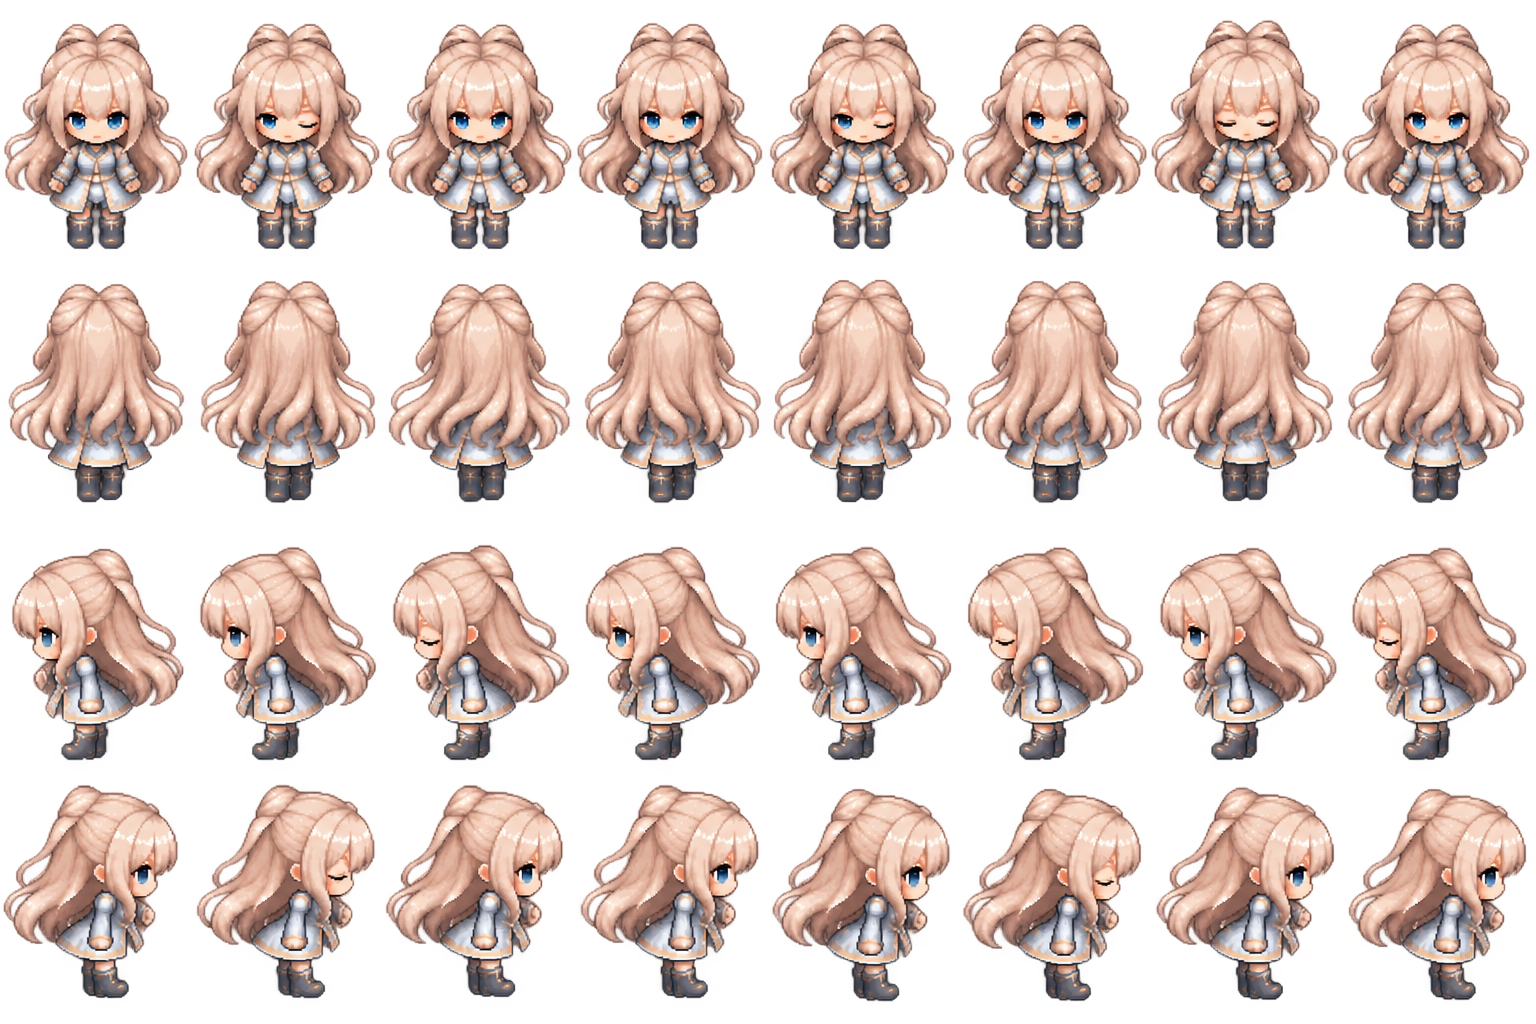
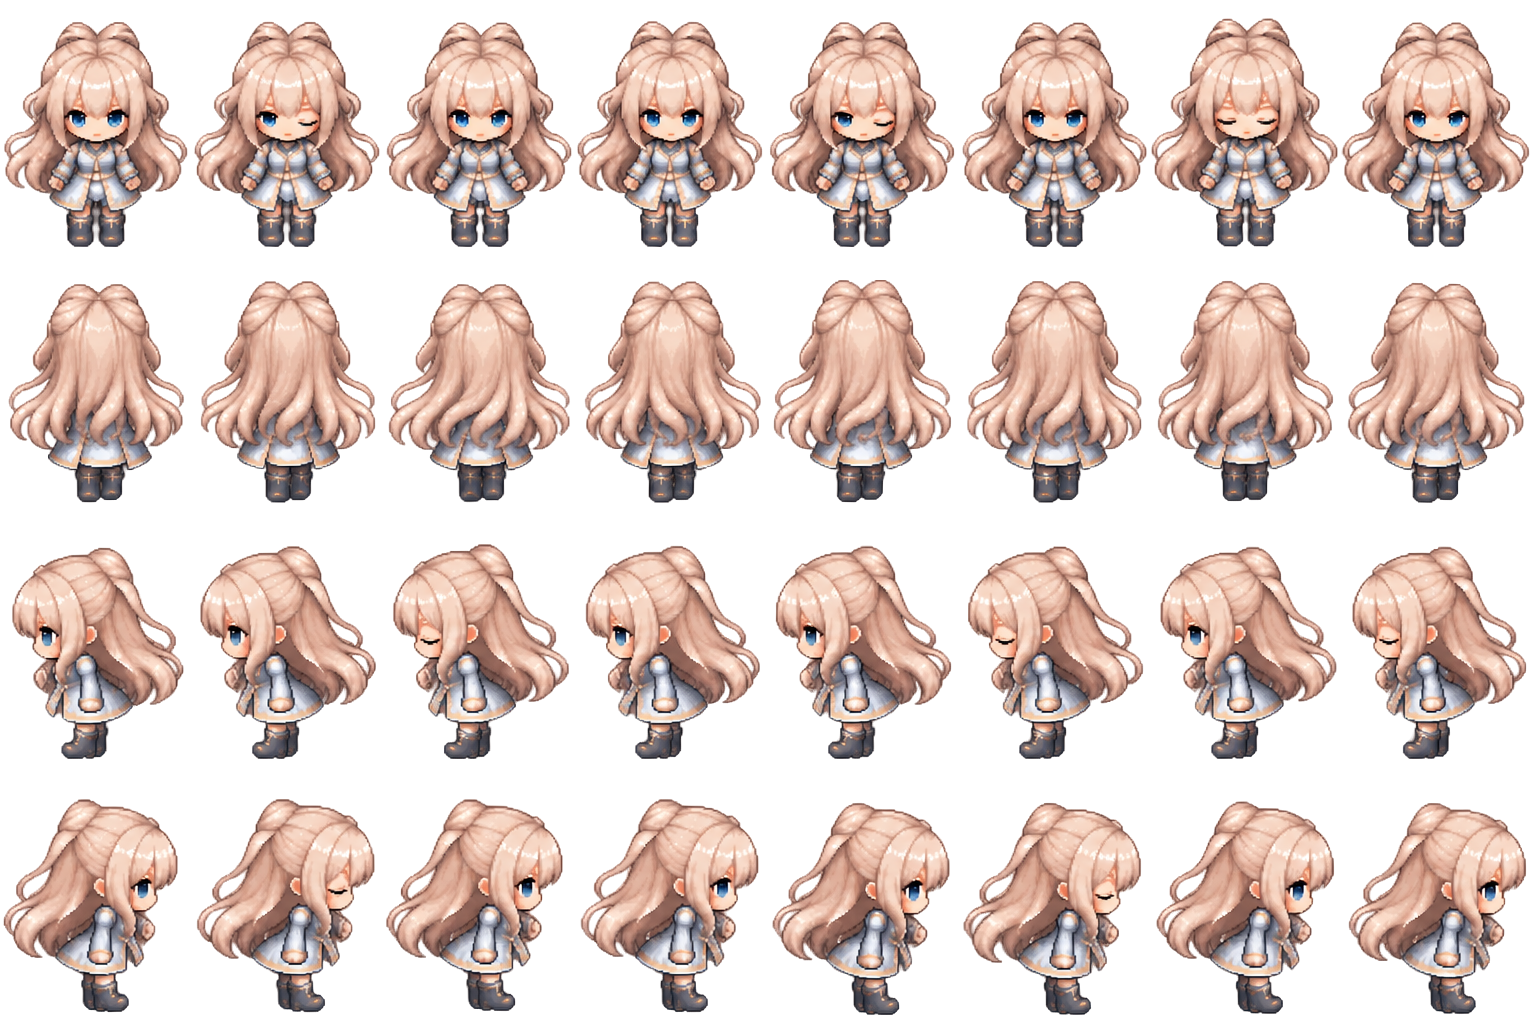
Fix character idle and left/right run animations

diff --git a/lib/game/character.dart b/lib/game/character.dart
@@ -92,19 +92,26 @@ abstract class Character extends SpriteAnimationGroupComponent<(Facing, bool)>
     _nameTag.position = Vector2(size.x / 2, 2);
   }
 
-  /// Builds animations from 8 x 4 walk/idle sheets and an optional 8 x 2
-  /// horizontal run sheet.
+  /// Builds animations from the 8 x 4 walk sheet, plus an optional 8 x 4
+  /// idle sheet and an optional 8 x 2 left/right run sheet.
+  ///
+  /// The idle and run sheets must use the same cell size and feet line as
+  /// the walk sheet (assets/sheets has the tool notes), so switching between
+  /// walking, running and standing never makes the character jump or resize.
   Future<void> _loadSheet() async {
     final image = await game.images.load(_sheetAsset);
     final cell = Vector2(image.width / 8, image.height / 4);
     final walkSheet = SpriteSheet(image: image, srcSize: cell);
+
     final idleImage = _idleSheetAsset == null
-        ? image
+        ? null
         : await game.images.load(_idleSheetAsset!);
-    final idleSheet = SpriteSheet(
-      image: idleImage,
-      srcSize: Vector2(idleImage.width / 8, idleImage.height / 4),
-    );
+    final idleSheet = idleImage == null
+        ? null
+        : SpriteSheet(
+            image: idleImage,
+            srcSize: Vector2(idleImage.width / 8, idleImage.height / 4),
+          );
     final runImage = _horizontalRunSheetAsset == null
         ? null
         : await game.images.load(_horizontalRunSheetAsset!);
@@ -121,10 +128,11 @@ abstract class Character extends SpriteAnimationGroupComponent<(Facing, bool)>
         row: facing.index,
         stepTime: 0.09,
       );
-      builtAnimations[(facing, false)] = idleSheet.createAnimation(
-        row: facing.index,
-        stepTime: 0.2,
-      );
+      // Standing still: the idle cycle if there is one, otherwise the first
+      // walk frame held still (not the whole walk played slowly).
+      builtAnimations[(facing, false)] = idleSheet != null
+          ? idleSheet.createAnimation(row: facing.index, stepTime: 0.2)
+          : walkSheet.createAnimation(row: facing.index, stepTime: 1, to: 1);
     }
     if (runSheet != null) {
       builtAnimations[(Facing.west, true)] = runSheet.createAnimation(

diff --git a/test/character_sheets_test.dart b/test/character_sheets_test.dart
@@ -1,0 +1,36 @@
+import 'dart:io';
+import 'dart:typed_data';
+
+import 'package:final_project/constants/characters.dart';
+import 'package:flutter_test/flutter_test.dart';
+
+/// Width and height from a PNG file's header.
+(int, int) pngSize(String asset) {
+  final bytes = File(asset).readAsBytesSync();
+  final data = ByteData.sublistView(bytes);
+  return (data.getUint32(16), data.getUint32(20));
+}
+
+void main() {
+  // A character's walk, idle and run sheets are drawn into the same box, so
+  // their frames must be the same size or the sprite stretches when it
+  // starts or stops moving.
+  for (final character in gameCharacters) {
+    test('${character.name}: idle and run frames match the walk frames', () {
+      final (walkW, walkH) = pngSize(character.sheet);
+      final walkCell = (walkW / 8, walkH / 4);
+
+      final idle = character.idleSheet;
+      if (idle != null) {
+        final (w, h) = pngSize(idle);
+        expect((w / 8, h / 4), walkCell, reason: '$idle (8 x 4)');
+      }
+
+      final run = character.horizontalRunSheet;
+      if (run != null) {
+        final (w, h) = pngSize(run);
+        expect((w / 8, h / 2), walkCell, reason: '$run (8 x 2)');
+      }
+    });
+  }
+}

diff --git a/test/tavern_game_test.dart b/test/tavern_game_test.dart
@@ -1,4 +1,5 @@
 import 'package:final_project/constants/app_images.dart';
+import 'package:final_project/game/player.dart';
 import 'package:final_project/game/tavern_game.dart';
 import 'package:final_project/game/tavern_map.dart';
 import 'package:flame/game.dart';
@@ -55,6 +56,17 @@ void main() {
         await tester.pump(const Duration(milliseconds: 16));
       }
       expect(game.player.sheetAsset, AppImages.mageSheet);
+      // Her left/right run frames are the same size as her walk frames,
+      // and standing still plays her idle cycle (8 frames), not the walk.
+      final anims = game.player.animations!;
+      expect(
+        anims[(Facing.west, true)]!.frames.first.sprite.srcSize,
+        anims[(Facing.south, true)]!.frames.first.sprite.srcSize,
+      );
+      expect(anims[(Facing.south, false)]!.frames, hasLength(8));
+      game.player.walk(Vector2.zero(), 1 / 60);
+      await tester.pump(const Duration(milliseconds: 16));
+      expect(game.player.current, (game.player.facing, false));
       expect(game.player.size.y, closeTo(87, 0.01));
       game.moveOtherPlayer('friend', 700, 600, 3, true);
       game.otherPlayerSays('friend', 'hi!');

diff --git a/lib/constants/characters.dart b/lib/constants/characters.dart
@@ -38,10 +38,12 @@ const List<GameCharacter> gameCharacters = [
   GameCharacter(
     name: AppStrings.characterLuna,
     sheet: AppImages.characterMenAnim,
+    idleSheet: AppImages.boyIdleSheet,
   ),
   GameCharacter(
     name: AppStrings.characterRogue,
     sheet: AppImages.characterMenAnim,
+    idleSheet: AppImages.boyIdleSheet,
   ),
   GameCharacter(
     name: AppStrings.characterMage,
@@ -53,10 +55,12 @@ const List<GameCharacter> gameCharacters = [
   GameCharacter(
     name: AppStrings.characterLily,
     sheet: AppImages.characterMenAnim,
+    idleSheet: AppImages.boyIdleSheet,
   ),
   GameCharacter(
     name: AppStrings.characterDancer,
     sheet: AppImages.characterMenAnim,
+    idleSheet: AppImages.boyIdleSheet,
   ),
 ];
 

diff --git a/lib/constants/app_images.dart b/lib/constants/app_images.dart
@@ -9,6 +9,7 @@ class AppImages {
   static const String mageSheet = 'assets/images/mage_sheet.png';
   static const String mageIdleSheet = 'assets/images/Idle_mage.png';
   static const String mageRunSheet = 'assets/images/mage_left_right.png';
+  static const String boyIdleSheet = 'assets/images/idle_anim_boy.png';
   static const String flowerBanner = 'assets/images/flower_banner.png';
   static const String profileLuna = 'assets/images/3.png';
   static const String profileRogue = 'assets/images/4.png';
